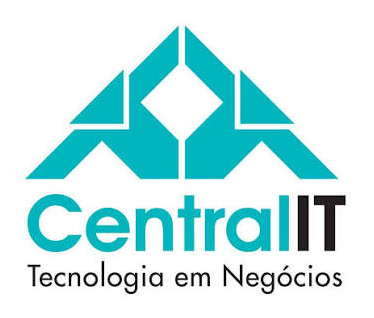
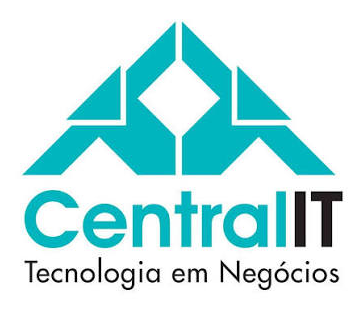
Use the supplied Alemba mark; enlarge Central IT and 65A tiles
Claude-Session: https://claude.ai/code/session_015aLBXNMLU2tjKCpx5kqRMF

diff --git a/solutions.html b/solutions.html
@@ -162,7 +162,7 @@
         </div>
       </div>
       <ul class="partners stagger" aria-label="Technology partners">
-        <li class="partner lead"><p class="role">Exclusive partner · IT service management</p><span class="mark"><img src="assets/partners/alemba.png" alt="Alemba" width="438" height="159" loading="lazy"></span><p class="note">Alemba Service Manager, implemented and operated by GES as the exclusive regional partner. Reference: Oromia Bank.</p></li>
+        <li class="partner lead"><p class="role">Exclusive partner · IT service management</p><span class="mark"><img src="assets/partners/alemba.png" alt="Alemba" width="713" height="261" loading="lazy"></span><p class="note">Alemba Service Manager, implemented and operated by GES as the exclusive regional partner. Reference: Oromia Bank.</p></li>
         <li class="partner"><span class="mark"><img src="assets/partners/collibra.png" alt="Collibra" width="900" height="313" loading="lazy"></span><span class="name">Collibra</span><p class="role">Data governance</p></li>
         <li class="partner"><span class="mark"><img src="assets/partners/navex.png" alt="NAVEX" width="470" height="107" loading="lazy"></span><span class="name">NAVEX</span><p class="role">Governance, risk &amp; compliance</p></li>
         <li class="partner"><span class="mark"><img src="assets/partners/metricstream.png" alt="MetricStream" width="900" height="195" loading="lazy"></span><span class="name">MetricStream</span><p class="role">Governance, risk &amp; compliance</p></li>
@@ -171,9 +171,9 @@
         <li class="partner"><span class="mark"><img src="assets/partners/avolution.png" alt="Avolution" width="728" height="219" loading="lazy"></span><span class="name">Avolution</span><p class="role">Enterprise architecture</p></li>
         <li class="partner"><span class="mark"><img src="assets/partners/run2biz.png" alt="Run2Biz" width="900" height="338" loading="lazy"></span><span class="name">Run2Biz</span><p class="role">Service management</p></li>
         <li class="partner"><span class="mark"><img src="assets/partners/citsmart.png" alt="CITSmart" width="900" height="313" loading="lazy"></span><span class="name">CITSmart</span><p class="role">Service management</p></li>
-        <li class="partner"><span class="mark"><img src="assets/partners/central-it.png" alt="Central IT" width="374" height="318" loading="lazy"></span><span class="name">Central IT</span><p class="role">AI-powered service management &amp; omnichannel</p></li>
+        <li class="partner tall"><span class="mark"><img src="assets/partners/central-it.png" alt="Central IT" width="364" height="311" loading="lazy"></span><span class="name">Central IT</span><p class="role">AI-powered service management &amp; omnichannel</p></li>
         <li class="partner"><span class="mark"><img src="assets/partners/simpliix.png" alt="Simpliix" width="900" height="316" loading="lazy"></span><span class="name">Simpliix</span><p class="role">Management systems, governance, risk &amp; compliance</p></li>
-        <li class="partner dark"><span class="mark"><img src="assets/partners/65a-tecnologia.png" alt="65A Tecnologia" width="1162" height="432" loading="lazy"></span><span class="name">65A Tecnologia</span><p class="role">AIOps, computer vision &amp; identity intelligence</p></li>
+        <li class="partner dark"><span class="mark"><img src="assets/partners/65a-tecnologia.png" alt="65A Tecnologia" width="504" height="254" loading="lazy"></span><span class="name">65A Tecnologia</span><p class="role">AIOps, computer vision &amp; identity intelligence</p></li>
         <li class="partner"><span class="mark"><img src="assets/partners/info-tech-research-group.png" alt="Info-Tech Research Group" width="384" height="117" loading="lazy"></span><span class="name">Info-Tech Research Group</span><p class="role">Research &amp; advisory · exclusive regional delivery partner</p></li>
       </ul>
       <p class="muted" style="margin-top:24px;max-width:62ch">Protect4, the GES sister company in Riyadh, brings specialised cybersecurity, data resilience and AI-driven operational intelligence into the group for organisations across Saudi Arabia and the GCC.</p>

diff --git a/index.html b/index.html
@@ -284,7 +284,7 @@
         </div>
       </div>
       <ul class="partners stagger" aria-label="Technology partners">
-        <li class="partner lead"><p class="role">Exclusive partner · IT service management</p><span class="mark"><img src="assets/partners/alemba.png" alt="Alemba" width="438" height="159" loading="lazy"></span><p class="note">Alemba Service Manager, implemented and operated by GES as the exclusive regional partner.</p></li>
+        <li class="partner lead"><p class="role">Exclusive partner · IT service management</p><span class="mark"><img src="assets/partners/alemba.png" alt="Alemba" width="713" height="261" loading="lazy"></span><p class="note">Alemba Service Manager, implemented and operated by GES as the exclusive regional partner.</p></li>
         <li class="partner"><span class="mark"><img src="assets/partners/collibra.png" alt="Collibra" width="900" height="313" loading="lazy"></span><span class="name">Collibra</span><p class="role">Data governance</p></li>
         <li class="partner"><span class="mark"><img src="assets/partners/navex.png" alt="NAVEX" width="470" height="107" loading="lazy"></span><span class="name">NAVEX</span><p class="role">Governance, risk &amp; compliance</p></li>
         <li class="partner"><span class="mark"><img src="assets/partners/metricstream.png" alt="MetricStream" width="900" height="195" loading="lazy"></span><span class="name">MetricStream</span><p class="role">Governance, risk &amp; compliance</p></li>
@@ -293,9 +293,9 @@
         <li class="partner"><span class="mark"><img src="assets/partners/avolution.png" alt="Avolution" width="728" height="219" loading="lazy"></span><span class="name">Avolution</span><p class="role">Enterprise architecture</p></li>
         <li class="partner"><span class="mark"><img src="assets/partners/run2biz.png" alt="Run2Biz" width="900" height="338" loading="lazy"></span><span class="name">Run2Biz</span><p class="role">Service management</p></li>
         <li class="partner"><span class="mark"><img src="assets/partners/citsmart.png" alt="CITSmart" width="900" height="313" loading="lazy"></span><span class="name">CITSmart</span><p class="role">Service management</p></li>
-        <li class="partner"><span class="mark"><img src="assets/partners/central-it.png" alt="Central IT" width="374" height="318" loading="lazy"></span><span class="name">Central IT</span><p class="role">AI-powered service management &amp; omnichannel</p></li>
+        <li class="partner tall"><span class="mark"><img src="assets/partners/central-it.png" alt="Central IT" width="364" height="311" loading="lazy"></span><span class="name">Central IT</span><p class="role">AI-powered service management &amp; omnichannel</p></li>
         <li class="partner"><span class="mark"><img src="assets/partners/simpliix.png" alt="Simpliix" width="900" height="316" loading="lazy"></span><span class="name">Simpliix</span><p class="role">Management systems, governance, risk &amp; compliance</p></li>
-        <li class="partner dark"><span class="mark"><img src="assets/partners/65a-tecnologia.png" alt="65A Tecnologia" width="1162" height="432" loading="lazy"></span><span class="name">65A Tecnologia</span><p class="role">AIOps, computer vision &amp; identity intelligence</p></li>
+        <li class="partner dark"><span class="mark"><img src="assets/partners/65a-tecnologia.png" alt="65A Tecnologia" width="504" height="254" loading="lazy"></span><span class="name">65A Tecnologia</span><p class="role">AIOps, computer vision &amp; identity intelligence</p></li>
         <li class="partner"><span class="mark"><img src="assets/partners/info-tech-research-group.png" alt="Info-Tech Research Group" width="384" height="117" loading="lazy"></span><span class="name">Info-Tech Research Group</span><p class="role">Research &amp; advisory · exclusive regional delivery partner</p></li>
       </ul>
       <p class="muted" style="margin-top:24px"><a class="more" href="solutions.html">Solutions &amp; partners <span class="arrow">→</span></a></p>

diff --git a/styles.css b/styles.css
@@ -342,6 +342,8 @@ button{font:inherit;color:inherit}
 .partner.dark .mark img{mix-blend-mode:normal;filter:none;opacity:.85}
 .partner.dark:hover .mark img{opacity:1}
 .partner.dark .role{color:var(--stone-on-navy)}
+.partner.tall .mark img{max-height:72px;max-width:80%}
+.partner.dark .mark img{max-height:60px;max-width:84%}
 .partner.lead{background:var(--white);grid-column:span 2;grid-row:span 2;padding:var(--space-8);min-height:0;grid-template-rows:auto minmax(0,1fr) auto;gap:var(--space-6)}
 .partner.lead:hover{background:var(--white)}
 .partner.lead .mark img{max-height:72px;max-width:60%;opacity:1;filter:none}
